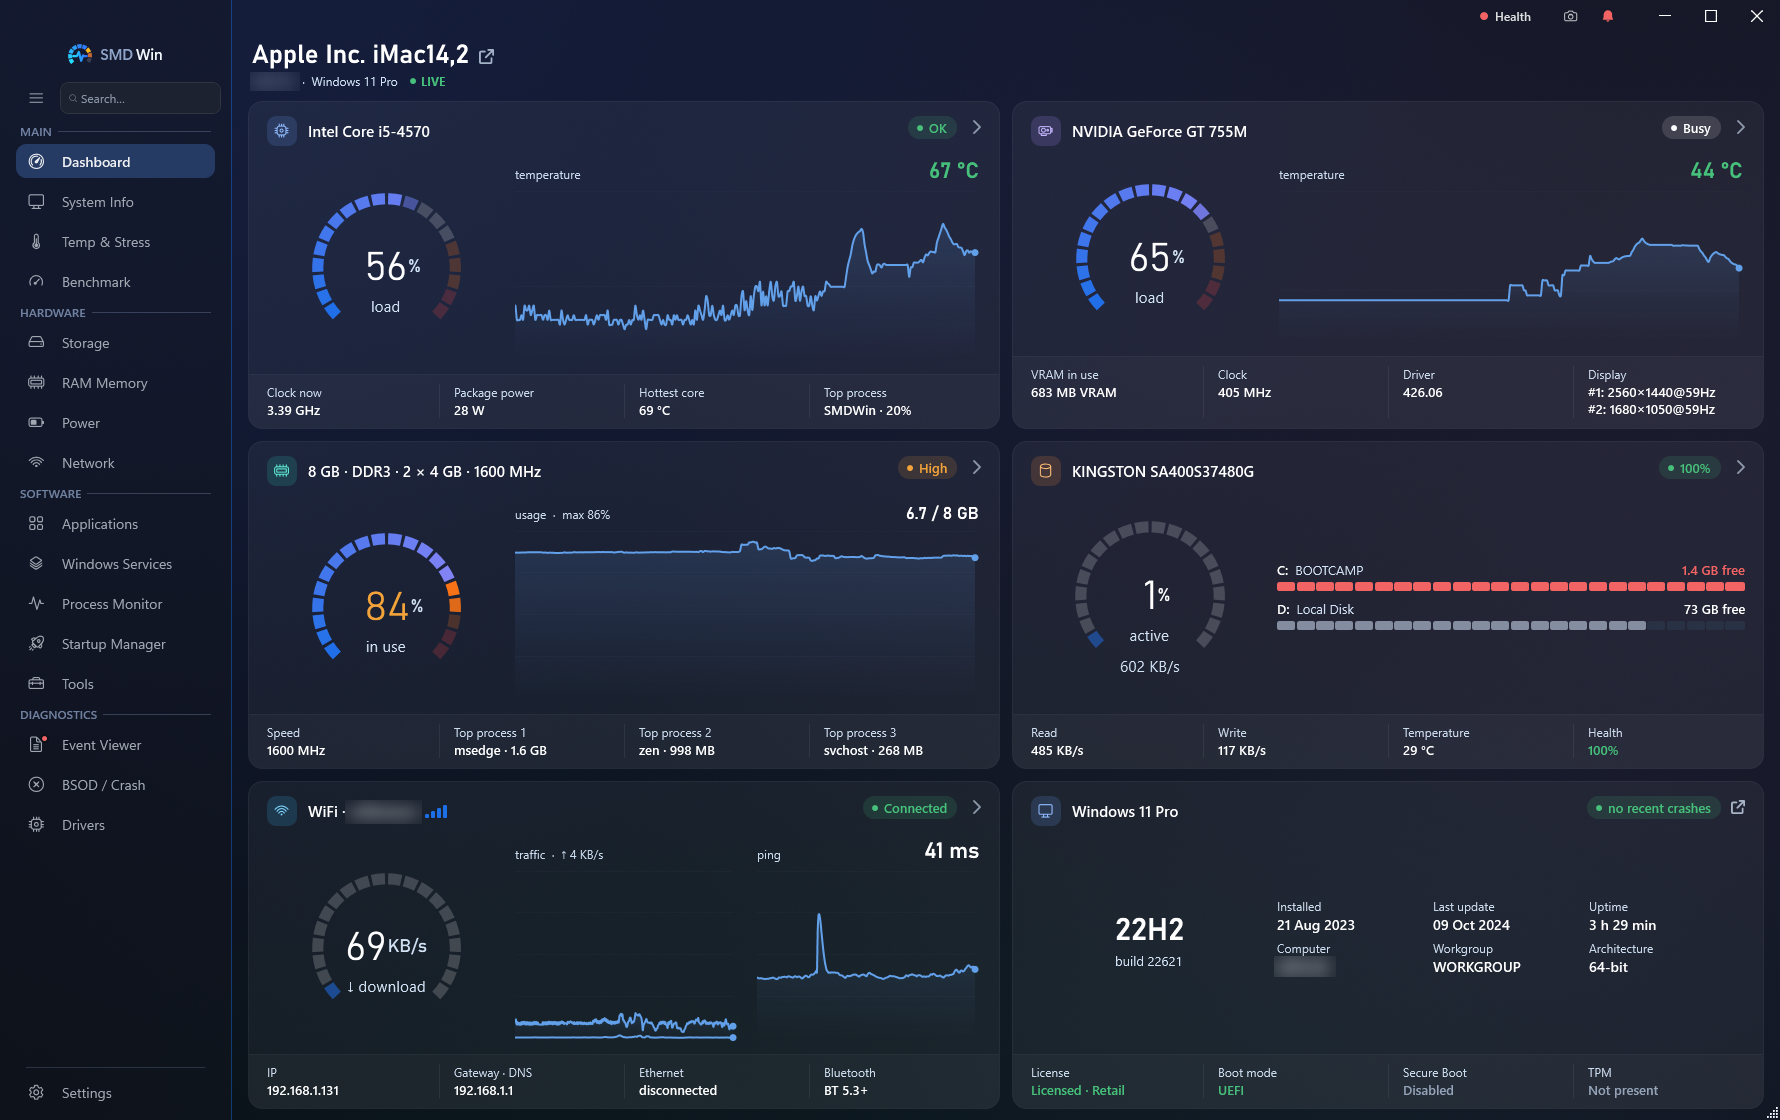
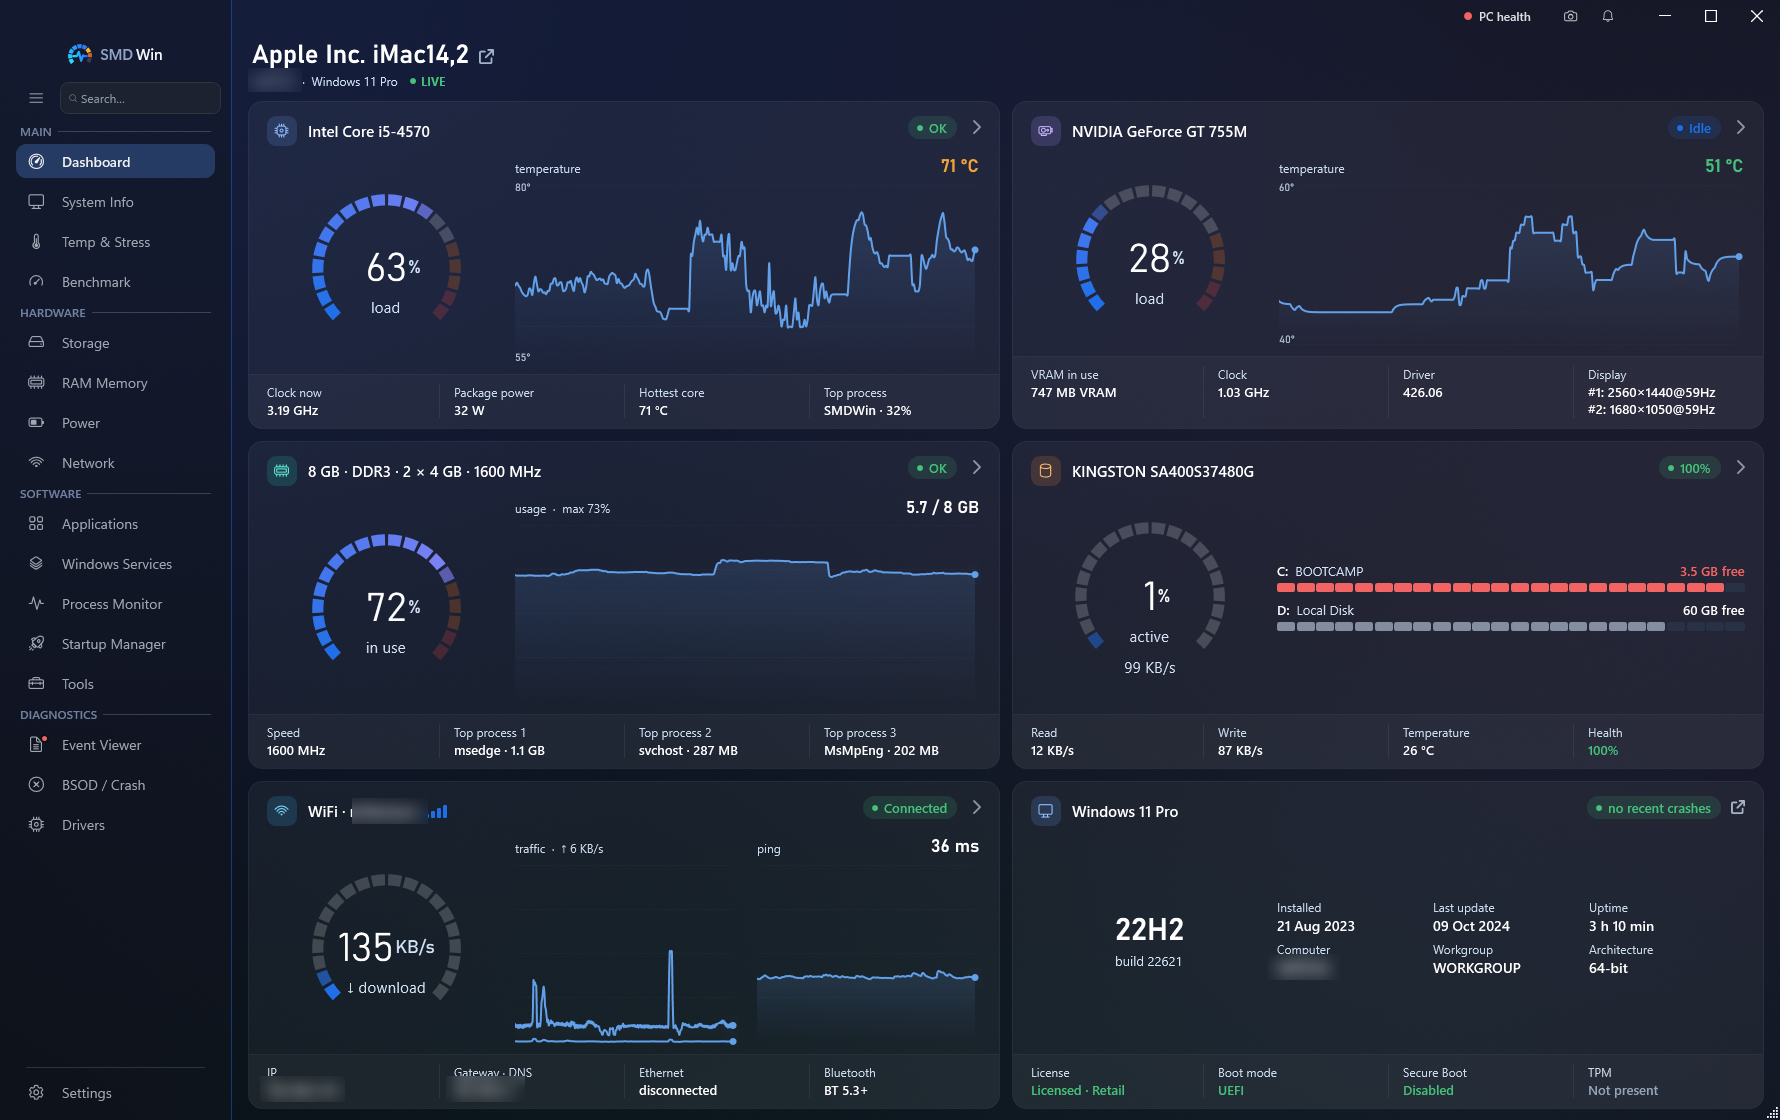
README screenshots from the latest self-test; Settings card aligned with the tabs; self-test waits for real results
Claude-Session: https://claude.ai/code/session_01KtW6jKzL7bNFFG38sjuXN5

diff --git a/views/MainWindow.SettingsPolish.cs b/views/MainWindow.SettingsPolish.cs
@@ -71,7 +71,11 @@ namespace SMDWin.Views
             ["ChkEnableNotifications"] = IcoBell,
             ["ChkAnimations"] = IcoGauge, ["RbBgRecFull"] = IcoGauge, ["RbSpeedNormal"] = IcoGauge,
             ["ChkAutoSnapshotStress"] = IcoDoc,
+            // "S:" = drawn as a line (stroke), not filled
+            ["RbCloseQuit"] = "S:M4.75,5.75 A1,1 0 0 1 5.75,4.75 L18.25,4.75 A1,1 0 0 1 19.25,5.75 L19.25,18.25 A1,1 0 0 1 18.25,19.25 L5.75,19.25 A1,1 0 0 1 4.75,18.25 Z M9.5,9.5 L14.5,14.5 M14.5,9.5 L9.5,14.5",
         };
+        // the language row has no option with a default (the language follows Windows), so it is found by its list
+        private const string IcoGlobe = "S:M12,2.75 A9.25,9.25 0 1 0 12,21.25 A9.25,9.25 0 1 0 12,2.75 Z M12,2.75 C9.6,5.3 8.6,8.6 8.6,12 C8.6,15.4 9.6,18.7 12,21.25 M12,2.75 C14.4,5.3 15.4,8.6 15.4,12 C15.4,15.4 14.4,18.7 12,21.25 M3,12 L21,12";
 
         private bool _settingsDecorated;
         private readonly List<(SetDefault Spec, FrameworkElement Dot, FrameworkElement Link)> _settingsMarks = new();
@@ -100,6 +104,9 @@ namespace SMDWin.Views
                         DecorateRow(row, spec, tabIcon, iconStyle, titleStyle, controlStyle);
                     }
                 }
+                // the card width follows the page (a scroll bar appearing changes it without resizing the window)
+                if (FindName("SettingsPageContent") is FrameworkElement spc)
+                    spc.SizeChanged += (_, e) => { if (e.WidthChanged) LayoutSettingsColumns(); };
                 var page = FindName("PanelSettings") as UIElement;
                 if (page != null)
                 {
@@ -124,6 +131,8 @@ namespace SMDWin.Views
                 var old = dock.Children.OfType<Viewbox>().FirstOrDefault(v => iconStyle != null && v.Style == iconStyle);
                 if (old != null) { data = LogicalDescendants(old).OfType<Path>().FirstOrDefault()?.Data?.ToString(); dock.Children.Remove(old); }
                 if (data == null && spec != null) SettingsRowIcons.TryGetValue(spec.Control, out data);
+                if (data == null && LogicalDescendants(row).OfType<FrameworkElement>().Any(f => f.Name == "LangPacksPanel" || f.Name == "CbLanguage"))
+                    data = IcoGlobe;
                 data ??= tabIcon;
                 if (data != null)
                 {
@@ -133,8 +142,15 @@ namespace SMDWin.Views
                         VerticalAlignment = VerticalAlignment.Center, Background = SummaryTint("AccentBrush", 24),
                     };
                     DockPanel.SetDock(tile, Dock.Left);
-                    var p = new Path { Data = Geometry.Parse(data), Stretch = Stretch.Uniform, Width = 16, Height = 16 };
-                    p.SetResourceReference(Shape.FillProperty, "AccentBrush");
+                    bool stroke = data.StartsWith("S:");
+                    var p = new Path { Data = Geometry.Parse(stroke ? data[2..] : data), Stretch = Stretch.Uniform, Width = 16, Height = 16 };
+                    if (stroke)
+                    {
+                        p.StrokeThickness = 1.5; p.StrokeLineJoin = PenLineJoin.Round;
+                        p.StrokeStartLineCap = p.StrokeEndLineCap = PenLineCap.Round;
+                        p.SetResourceReference(Shape.StrokeProperty, "AccentBrush");
+                    }
+                    else p.SetResourceReference(Shape.FillProperty, "AccentBrush");
                     tile.Child = p;
                     dock.Children.Insert(0, tile);
                 }

diff --git a/views/MainWindow.SettingsTabs.cs b/views/MainWindow.SettingsTabs.cs
@@ -338,9 +338,23 @@ namespace SMDWin.Views
 
         // ── The page columns ────────────────────────────────────────────────────
 
-        /// <summary>Settings shows one category at a time, full width (MaxWidth in XAML): nothing to rearrange any more.
-        /// Kept as the hook the page's size / visibility events call.</summary>
-        private void LayoutSettingsColumns() { }
+        /// <summary>Settings shows one category at a time. On a wide window the card stays at most 1180 px wide and lines up
+        /// on the left with the tabs (with MaxWidth alone it sat centered, away from the tabs). Called on size / visibility.</summary>
+        private void LayoutSettingsColumns()
+        {
+            try
+            {
+                if (FindName("SettingsPageContent") is not FrameworkElement content || content.ActualWidth <= 0) return;
+                double w = Math.Min(content.ActualWidth, 1180);
+                foreach (var t in SettingsTabTags)
+                    if (FindName("SetPanel" + t) is FrameworkElement p)
+                    {
+                        p.HorizontalAlignment = System.Windows.HorizontalAlignment.Left;
+                        p.Width = w;
+                    }
+            }
+            catch (Exception ex) { AppLogger.Warning(ex, "LayoutSettingsColumns"); }
+        }
 
         // ── The tabs (buttons, as in Storage) and the choices in the "Look and charts" card ──
 

diff --git a/views/MainWindow.SelfTestLive.cs b/views/MainWindow.SelfTestLive.cs
@@ -90,7 +90,8 @@ namespace SMDWin.Views
             try
             {
                 await NavigateTo("Network");
-                foreach (var (key, ms) in new[] { ("SpeedTest", 12000), ("Ping", 10000), ("Traceroute", 10000), ("Dns", 5000),
+                // the speed test runs to the end (download + upload ≈ 45 s), so its "after" picture shows real results
+                foreach (var (key, ms) in new[] { ("SpeedTest", 50000), ("Ping", 10000), ("Traceroute", 10000), ("Dns", 5000),
                                                   ("Ports", 10000), ("Lan", 10000), ("Wifi", 10000) })
                     await Step("Network-" + key, () => StartNet(key), () => StopNet(key), ms);
                 ShowNetTool("Overview", null);
@@ -152,7 +153,8 @@ namespace SMDWin.Views
                     Shoot("Benchmark-running");
                     var finished = await Task.WhenAny(run, Task.Delay(TimeSpan.FromMinutes(6), ct));
                     if (finished != run) { _benchCts?.Cancel(); await run; }
-                    await Task.Delay(1200, ct);
+                    // the finale: each part pulses, then the general mark counts up (~3 s) — the picture shows the final numbers
+                    await Task.Delay(4500, ct);
                     Shoot("Benchmark-done");
                 }
                 done++;

diff --git a/CHANGELOG.md b/CHANGELOG.md
@@ -6,6 +6,9 @@ Dates are in day.month.year format.
 ## [0.4.2 Beta] — November 2026
 
 ### Changed
+- Settings: on a wide window the card lines up with the tabs on the left (it sat centered); the Close button and Language rows have their own icons.
+- Self-test: the speed test runs to the end and the finished Benchmark is captured after its final count-up, so the pictures show real results.
+- README: new screenshots (Benchmark, SMART, surface scan, Applications, Services, Tools).
 - Benchmark: while the test runs, its button in the sidebar shows the running-test animation, like Storage and RAM.
 - Benchmark: the drawing comes first — it is larger (a wider column, a smaller general-mark dial) and on a laptop screen the page fits without scrolling, before and after the test (the test descriptions under the bars step out into tooltips when the drawing would get less than about 380 px), the texts next to the drawing are larger on a small drawing, and the checks before the test follow the PC while the page is open (charger, processor load).
 - Settings: the search box next to the tabs is gone — the search in the sidebar finds the options too and marks them on the Settings page; the note on Advanced is a light band instead of a dark one.

diff --git a/README.md b/README.md
@@ -8,9 +8,15 @@ SMD Win is made for the moment someone asks "is this computer OK?". It is starte
 
 ![Dashboard](docs/screenshots/dashboard-dark.png)
 
-| Temp & Stress | Storage |
+| Benchmark | Temp & Stress |
 |---|---|
-| ![Temp & Stress](docs/screenshots/temp-stress-light.png) | ![Storage](docs/screenshots/storage-dark.png) |
+| ![Benchmark — a drawing of the PC follows the test](docs/screenshots/benchmark-dark.png) | ![Temp & Stress](docs/screenshots/temp-stress-light.png) |
+| **Storage — SMART** | **Storage — surface scan** |
+| ![Storage — SMART, every value explained](docs/screenshots/storage-smart-dark.png) | ![Surface scan](docs/screenshots/surface-scan-dark.png) |
+| **Applications** | **Windows Services** |
+| ![Applications — size, age, updates](docs/screenshots/apps-dark.png) | ![Windows Services — safe changes, recent problems](docs/screenshots/services-dark.png) |
+| **Tools** | |
+| ![Tools — repair, clean up, before a reinstall](docs/screenshots/tools-light.png) | |
 
 ## What it does
 

diff --git a/docs/screenshots/README.md b/docs/screenshots/README.md
@@ -1,1 +1,3 @@
 Screenshots used in the main README. Personal details (computer name, Wi-Fi name, serial numbers) are blurred.
+
+Updated from the self-test pictures (`screenshots/` in the self-test zip) whenever a page changes; the IP addresses are blurred too.
